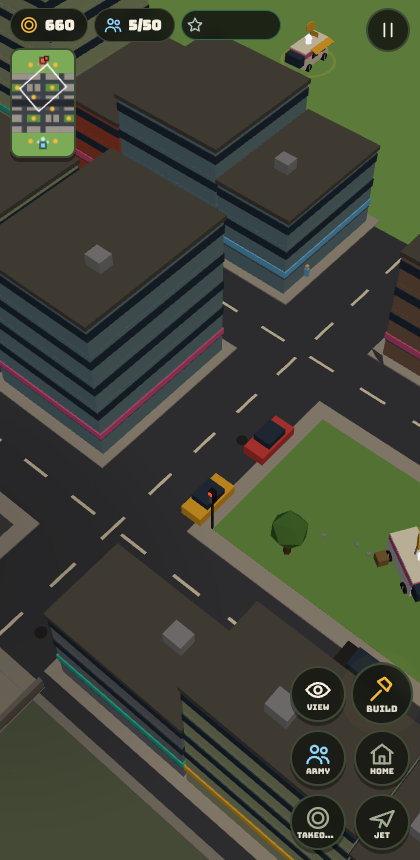
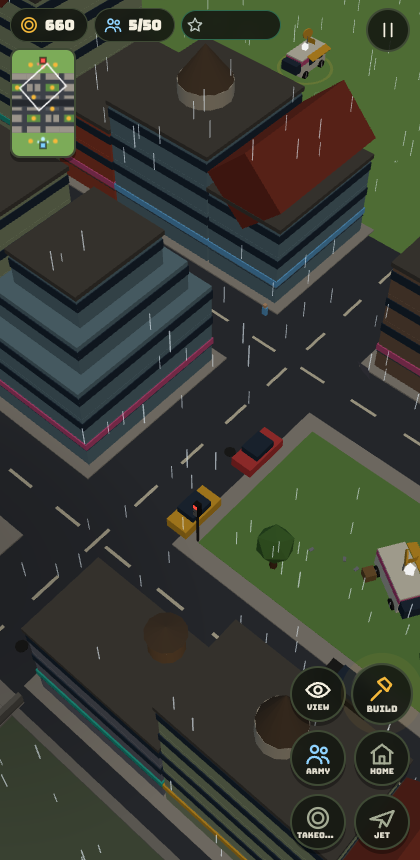
B143: Downtown step 4b - City Hall / Hideout HQ upgrades with side-specific perks
Claude-Session: https://claude.ai/code/session_01FXzpagnksiDmMAqP3MTiXJ

diff --git a/src/sim/sim.js b/src/sim/sim.js
@@ -9,11 +9,11 @@
 import {
   TICK, START_CASH, BUILD_RADIUS, MAX_WORKERS, NODE_AMOUNT, GATHER_T, CARRY, BASE_INCOME, DEPOT_INCOME,
   COUNTER, REQ, UPG, UPT, BLD, FACTIONS,
-} from '../config/factions.js?v=141';
-import { MAP, NODES, BASES, CITY, walkH } from '../map/layout.js?v=141';
-import { markCircle, isBlocked, lineClear, nearestFree, findPath, blocked, cellOf, cellCenter, inGrid } from '../map/grid.js?v=141';
-import { mulberry32 } from '../util/math.js?v=141';
-import { aiStep } from './ai.js?v=141';
+} from '../config/factions.js?v=143';
+import { MAP, NODES, BASES, CITY, walkH } from '../map/layout.js?v=143';
+import { markCircle, isBlocked, lineClear, nearestFree, findPath, blocked, cellOf, cellCenter, inGrid } from '../map/grid.js?v=143';
+import { mulberry32 } from '../util/math.js?v=143';
+import { aiStep } from './ai.js?v=143';
 
 let S = null;
 export const getSim = () => S;
@@ -21,7 +21,7 @@ export const pl = (i) => S.players[i];
 export const fac = (p) => FACTIONS[p.f];
 
 function mkPlayer(i, f, side) {
-  return { i, f, side, inc: 1, cash: START_CASH, st: { kills: 0, earned: 0, built: 0, razed: 0 }, meter: 0, incomeT: 0, parade: 0, party: 0, hqx: BASES[i].x, hqz: BASES[i].z };
+  return { i, f, side, inc: 1, cash: START_CASH, st: { kills: 0, earned: 0, built: 0, razed: 0 }, meter: 0, incomeT: 0, parade: 0, party: 0, hqLvl: 1, hqx: BASES[i].x, hqz: BASES[i].z };
 }
 
 // diff: 0 easy, 1 normal, 2 hard - the computer earns 70% / 100% / 135% and attacks with smaller / bigger waves.
@@ -85,6 +85,10 @@ const dist = (a, b) => Math.hypot(a.x - b.x, a.z - b.z) - a.r - b.r;
 const sqR = (def, slot) => (def.n > 1 ? 1.3 : def.vehicle ? 1.4 : slot === 'hero' ? 0.8 : slot === 'worker' ? 0.6 : 1.1);
 const byId = (id) => S.squads.find((s) => s.id === id) || S.blds.find((b) => b.id === id) || S.city.find((b) => b.id === id) || null;
 const FLOOR_HP = 120;
+// Downtown HQ upgrades. City Hall (builders): L2 workers rebuild 2x faster + recruiting costs 35; L3 tax x1.75, shops pay 10.
+// Hideout (wreckers): L2 loot +50% and tags pay 5; L3 fighters hit storefronts 1.25x harder.
+export const HQ_UP = [250, 450];
+const lvl = (i) => (S.players[i] ? S.players[i].hqLvl || 1 : 1);
 // Floors standing for a city storefront's hp: a floor is gone once its slice of hp is fully gone.
 const floorsFor = (b) => Math.max(0, Math.min(b.floors, Math.ceil(b.hp / FLOOR_HP - 1e-6)));
 
@@ -208,10 +212,18 @@ function applyCmd(c) {
     case 'garrison': { const b = byId(c.tower); if (b && b.owner === p.i && b.kind === 'tower' && b.built >= 1 && !b.garrison) { const q = ownSquads(p.i, c.ids).find((s) => !s.def.vehicle && !s.def.flies && s.slot !== 'worker' && s.slot !== 'hero' && !s.gar); if (q) { setOrder(q, { type: 'enter', tower: b }); b.garrison = q.id; } } break; }
     case 'eject': { const b = byId(c.id); if (b && b.owner === p.i && b.garrison) ejectTower(b); break; }
     case 'repair': { const b = byId(c.id); if (b && (b.owner === p.i || b.city) && b.built >= 1 && (b.hp < b.maxHp || b.tag || (b.city && S.down && !b.shop))) ownSquads(p.i, c.ids).forEach((s) => { if (s.slot === 'worker') setOrder(s, { type: 'repair', b }); }); break; }
+    case 'hqup': { // Downtown: City Hall (builders) / Hideout (wreckers), levels 2 and 3
+      if (!S.down || p.hqLvl >= 3) break;
+      const cost = HQ_UP[p.hqLvl - 1], hq = hqOf(p);
+      if (!hq || p.cash < cost) break;
+      p.cash -= cost; p.hqLvl++;
+      S.events.push({ k: 'hqup', x: hq.x, z: hq.z, owner: p.i, lvl: p.hqLvl, role: S.down.role[p.i] });
+      break;
+    }
     case 'recruit': { // Downtown: tap a drifter. Builders give a job (worker, 50), wreckers hand over a spray can (fighter, 40).
       const d = S.drift && S.drift.find((q) => q.id === c.id), D = S.down;
       if (!d || !D) break;
-      const role = D.role[p.i], cost = role === 'b' ? 50 : 40;
+      const role = D.role[p.i], cost = role === 'b' ? (p.hqLvl >= 2 ? 35 : 50) : 40;
       if (p.cash < cost) break;
       p.cash -= cost; recruit(d, p.i);
       break;
@@ -288,8 +300,9 @@ function killSquad(t) {
 function hitBld(b, d, by) {
   if (b.city) { // a storefront: floors come off from the top, the ground floor last; rubble stays and can be rebuilt
     if (b.hp <= 0) return;
+    if (S.down && by !== undefined && S.down.role[by] === 'w' && lvl(by) >= 3) d *= 1.25;
     if (S.down && by !== undefined && S.down.role[by] === 'w') {
-      if (b.shop) { b.shop = false; const p = pl(by); p.cash += 30; p.st.earned += 30; S.events.push({ k: 'looted', ci: b.ci, x: b.x, z: b.z, owner: by }); } // smash-and-grab
+      if (b.shop) { b.shop = false; const p = pl(by), g = lvl(by) >= 2 ? 45 : 30; p.cash += g; p.st.earned += g; S.events.push({ k: 'looted', ci: b.ci, x: b.x, z: b.z, owner: by }); } // smash-and-grab
       if (!b.tag) { b.tag = true; b.work = 0; S.events.push({ k: 'tagged', ci: b.ci, x: b.x, z: b.z }); }
     }
     b.hp = Math.max(0, b.hp - d);
@@ -414,7 +427,7 @@ function updateWorker(s, dt) {
       else if (!b.tag && b.work >= 4 && p.cash >= 60) { p.cash -= 60; b.shop = true; b.work = 0; S.events.push({ k: 'shopopen', ci: b.ci, x: b.x, z: b.z, owner: s.owner }); }
       return;
     }
-    const hp = Math.min(b.maxHp - b.hp, 25 * dt);
+    const hp = Math.min(b.maxHp - b.hp, 25 * dt * (b.city && S.down && lvl(s.owner) >= 2 ? 2 : 1));
     b.hp += hp; p.cash -= hp / 10;
     if (b.city) { // a storefront goes back up a whole floor at a time, once that floor's hp is fully paid for
       b.dead = false;
@@ -579,7 +592,7 @@ function stepDown(dt) {
   if (D.taxT >= 10) {
     D.taxT -= 10;
     const shops = S.city.filter((b) => b.shop).length, tags = S.city.filter((b) => b.tag).length;
-    const pb = pl(bi), ib = Math.round(50 * D.meter) + shops * 6, pw = pl(wi), iw = tags * 3; // shops pay the builders, tagged blocks pay the wreckers
+    const pb = pl(bi), ib = Math.round(50 * D.meter * (lvl(bi) >= 3 ? 1.75 : 1)) + shops * (lvl(bi) >= 3 ? 10 : 6), pw = pl(wi), iw = tags * (lvl(wi) >= 2 ? 5 : 3); // shops pay the builders, tagged blocks pay the wreckers
     pb.cash += ib; pb.st.earned += ib; pw.cash += iw; pw.st.earned += iw;
     S.events.push({ k: 'income', owner: bi });
   }

diff --git a/src/fx/fx.js b/src/fx/fx.js
@@ -1,12 +1,12 @@
 // Visual effects. Reads sim events, never changes the sim.
 // To add an effect for a new mechanic: emit S.events.push({k:'myThing', ...}) in the sim,
 // then add a case in handleEvents below.
-import { THREE, scene, mat, cyl, basic, disposeObj } from '../render/scene.js?v=141';
-import { walkH, CITY } from '../map/layout.js?v=141';
-import { sfx } from './sfx.js?v=141';
-import { shake, CAM } from '../camera/camera.js?v=141';
-import { FC } from '../render/models.js?v=141';
-import { emit, updateParticles, clearParticles, burstHit, burstShot, burstCoins } from './particles.js?v=141';
+import { THREE, scene, mat, cyl, basic, disposeObj } from '../render/scene.js?v=143';
+import { walkH, CITY } from '../map/layout.js?v=143';
+import { sfx } from './sfx.js?v=143';
+import { shake, CAM } from '../camera/camera.js?v=143';
+import { FC } from '../render/models.js?v=143';
+import { emit, updateParticles, clearParticles, burstHit, burstShot, burstCoins } from './particles.js?v=143';
 
 const fx = [];
 function addFx(obj, life, upd) { scene.add(obj); fx.push({ obj, life, t: 0, upd }); }
@@ -315,7 +315,7 @@ export function fxDeath(x, z, f) {
 
 /** Drain this tick's sim events into effects. bump(id) makes a squad lunge. */
 const SND = { hit: 'thud', shot: 'pop', boom: 'boom', fwboom: 'boom', wreckboom: 'boom', rank: 'chime', levelup: 'chime', done: 'chime',
-  mud: 'sting', fwlaunch: 'whoosh', wrecklaunch: 'whoosh', parade: 'sting', pie: 'sting', cones: 'sting', screech: 'sting', bullhorn: 'sting', overtime: 'chime', takeover: 'ding', jetfly: 'whoosh', jetdrop: 'thud', heroin: 'fanfare', looted: 'ding', tagged: 'whoosh', scrub: 'tap', shopopen: 'chime', hired: 'ding', riled: 'sting', chunk: 'boom', chunkfix: 'ding', hush: 'ding', golive: 'ding', wifi: 'sting', patch: 'chime', hill: 'chime', blockparty: 'sting', dropbeat: 'sting', mixlaunch: 'whoosh', mixboom: 'boom', spawn: 'blip', repair: 'tap' };
+  mud: 'sting', fwlaunch: 'whoosh', wrecklaunch: 'whoosh', parade: 'sting', pie: 'sting', cones: 'sting', screech: 'sting', bullhorn: 'sting', overtime: 'chime', takeover: 'ding', jetfly: 'whoosh', jetdrop: 'thud', heroin: 'fanfare', hqup: 'fanfare', looted: 'ding', tagged: 'whoosh', scrub: 'tap', shopopen: 'chime', hired: 'ding', riled: 'sting', chunk: 'boom', chunkfix: 'ding', hush: 'ding', golive: 'ding', wifi: 'sting', patch: 'chime', hill: 'chime', blockparty: 'sting', dropbeat: 'sting', mixlaunch: 'whoosh', mixboom: 'boom', spawn: 'blip', repair: 'tap' };
 function playFor(ev) {
   let name = SND[ev.k];
   if ((ev.k === 'deposit' || ev.k === 'income' || ev.k === 'refund' || ev.k === 'scrap') && ev.owner === 0) name = 'ding';
@@ -441,6 +441,12 @@ export function handleEvents(S, bump) {
       case 'tagged': for (let i = 0; i < 14; i++) emit({ x: ev.x + (Math.random() - 0.5) * 4, y: gy(ev.x, ev.z, 1 + Math.random() * 1.5), z: ev.z + (Math.random() - 0.5) * 4, vx: (Math.random() - 0.5) * 2, vy: Math.random(), vz: (Math.random() - 0.5) * 2, c: [0xff5ad1, 0x7ee05b, 0x5ae0ff, 0xf5b83a][i % 4], s: 0.2, life: 0.6, g: 2 }); break;
       case 'scrub': for (let i = 0; i < 16; i++) emit({ x: ev.x + (Math.random() - 0.5) * 4, y: gy(ev.x, ev.z, 0.5 + Math.random() * 2), z: ev.z + (Math.random() - 0.5) * 4, vy: 0.8 + Math.random(), c: 0xeaf6ff, s: 0.22, life: 1.1, g: -0.3, drag: 1, grow: 1.5 }); break;
       case 'shopopen': fxRing(ev.x, ev.z, 0.5, 6, 0x7ee05b, 0.7, 0.2); fxCoin(ev.x, 4, ev.z); for (let i = 0; i < 10; i++) emit({ x: ev.x + (Math.random() - 0.5) * 4, y: gy(ev.x, ev.z, 2.5), z: ev.z + (Math.random() - 0.5) * 4, vy: 2 + Math.random() * 2, c: i % 2 ? 0xf5b83a : 0xffffff, s: 0.16, life: 1, g: 4 }); break;
+      case 'hqup': { // City Hall: gold rings + white confetti; Hideout: neon spray burst
+        const cs = ev.role === 'b' ? [0xf5b83a, 0xffffff] : [0xff5ad1, 0x7ee05b, 0x5ae0ff];
+        fxRing(ev.x, ev.z, 1, 8, cs[0], 0.8, 0.2); fxRing(ev.x, ev.z, 0.5, 6, cs[1], 0.7, 2); shake(0.4, ev.x, ev.z);
+        for (let i = 0; i < 30; i++) emit({ x: ev.x + (Math.random() - 0.5) * 4, y: gy(ev.x, ev.z, 4), z: ev.z + (Math.random() - 0.5) * 4, vx: (Math.random() - 0.5) * 5, vy: 3 + Math.random() * 4, vz: (Math.random() - 0.5) * 5, c: cs[i % cs.length], s: 0.2, life: 1.6, g: 6, drag: 0.8 });
+        break;
+      }
       case 'heroin': heroEntrance(ev); break;
       case 'spawn': fxRing(ev.x, ev.z, 0.5, 2.2, 0xf3efe2, 0.35); break;
     }

diff --git a/src/ui/hud.js b/src/ui/hud.js
@@ -1,16 +1,16 @@
 // HUD: resource chips, context panel, command buttons, floating placement confirm, long-press labels.
 // Buttons are described as data ("specs") each refresh; the DOM is rebuilt only when the set of buttons changes.
 // Every action goes through sim.command(); Q.* is used only for instant feedback (shake, dim).
-import { svg } from './icons.js?v=141';
-import { UI, select, selSquads } from './state.js?v=141';
-import { getSim, pl, fac, Q, command, count, cpUsed, cpCap, hqOf } from '../sim/sim.js?v=141';
-import { BLD, BUILD_KINDS, TRAIN_SLOTS, UPG, REQ } from '../config/factions.js?v=141';
-import { CAM, toggleView, focus } from '../camera/camera.js?v=141';
-import { camera } from '../render/scene.js?v=141';
-import { walkH } from '../map/layout.js?v=141';
-import { THREE } from '../render/scene.js?v=141';
-import { showHint } from './hint.js?v=141';
-import { sfx } from '../fx/sfx.js?v=141';
+import { svg } from './icons.js?v=143';
+import { UI, select, selSquads } from './state.js?v=143';
+import { getSim, pl, fac, Q, command, count, cpUsed, cpCap, hqOf, HQ_UP } from '../sim/sim.js?v=143';
+import { BLD, BUILD_KINDS, TRAIN_SLOTS, UPG, REQ } from '../config/factions.js?v=143';
+import { CAM, toggleView, focus } from '../camera/camera.js?v=143';
+import { camera } from '../render/scene.js?v=143';
+import { walkH } from '../map/layout.js?v=143';
+import { THREE } from '../render/scene.js?v=143';
+import { showHint } from './hint.js?v=143';
+import { sfx } from '../fx/sfx.js?v=143';
 
 const panelEl = document.getElementById('panel'), cmdEl = document.getElementById('cmd'), queueEl = document.getElementById('queue');
 const placeBar = document.getElementById('placeBar'), tipEl = document.getElementById('tip');
@@ -85,6 +85,10 @@ function panelSpec() {
     } else if (b.kind === 'hq') {
       const w = F.units.worker, ww = Q.canTrain(p, b, 'worker'), wq = b.queue.filter((x) => x === 'worker').length;
       out.push({ id: 't-worker', name: w.name, icon: 'worker', cost: w.cost, dis: ww === 'lock' || b.built < 1, poor: ww === 'cash', cp: ww === 'cp', badge: wq || '', prog: b.queue[0] === 'worker' ? b.prodT / w.build : null, tap: () => (ww ? false : command(0, { type: 'train', id: b.id, slot: 'worker' })) });
+      if (S.down && p.hqLvl < 3) { // Downtown: grow City Hall (builders) / the Hideout (wreckers)
+        const cost = HQ_UP[p.hqLvl - 1], build = S.down.role[0] === 'b';
+        out.push({ id: 'hqup', name: (build ? 'City Hall' : 'Hideout') + ' level ' + (p.hqLvl + 1), short: build ? 'Hall' : 'Hideout', icon: 'up', cost, poor: p.cash < cost, pips: p.hqLvl + 1, tap: () => command(0, { type: 'hqup' }) });
+      }
       const def = F.units.hero, why = Q.canTrain(p, b, 'hero');
       out.push({ id: 't-hero', name: def.name, icon: 'hero', cost: def.cost, dis: why === 'lock' && !b.queue.includes('hero'), poor: why === 'cash', cp: why === 'cp', prog: b.queue[0] === 'hero' ? b.prodT / def.build : null, tap: () => (why ? false : command(0, { type: 'train', id: b.id, slot: 'hero' })) });
     }

diff --git a/index.html b/index.html
@@ -6,7 +6,7 @@
 <meta name="viewport" content="width=device-width,initial-scale=1,maximum-scale=1,user-scalable=no,viewport-fit=cover">
 <link rel="preconnect" href="https://fonts.googleapis.com">
 <link rel="stylesheet" href="https://fonts.googleapis.com/css2?family=Bungee&family=Lilita+One&display=swap">
-<link rel="stylesheet" href="./src/ui/style.css?v=141">
+<link rel="stylesheet" href="./src/ui/style.css?v=143">
 <!-- No build step needed: GitHub Pages serves this file straight from main, so bare 'three' imports resolve here. -->
 <script type="importmap">
 { "imports": { "three": "./vendor/three/three.module.min.js", "three/examples/jsm/": "./vendor/three/jsm/" } }
@@ -36,7 +36,7 @@
 <div id="box"></div>
 <div id="holdRing" hidden></div>
 <div id="menu" class="overlay">
-  <h1>Culture <em>Wars</em><span>GREYBOX 04 · <b id="build">B141</b></span></h1>
+  <h1>Culture <em>Wars</em><span>GREYBOX 04 · <b id="build">B143</b></span></h1>
   <div class="diff" id="diff"><button type="button" data-d="0" aria-label="Easy"><span class="ic" data-i="star"></span></button><button type="button" data-d="1" class="on" aria-label="Normal"><span class="ic" data-i="star"></span><span class="ic" data-i="star"></span></button><button type="button" data-d="2" aria-label="Hard"><span class="ic" data-i="star"></span><span class="ic" data-i="star"></span><span class="ic" data-i="star"></span></button><i class="sep"></i><button type="button" class="mode" data-m="vs" aria-label="Versus"><span class="ic" data-i="home"></span><small>VERSUS</small></button><button type="button" class="mode" data-m="hill" aria-label="King of the Hill"><span class="ic" data-i="flag"></span><small>HILL</small></button><button type="button" class="mode" data-m="cap" aria-label="Capture and Hold"><span class="ic" data-i="hold"></span><small>FLAGS</small></button><button type="button" class="mode" data-m="race" aria-label="Resource Race"><span class="ic" data-i="coin"></span><small>RACE</small></button><button type="button" class="mode" data-m="hero" aria-label="Hero vs Hero"><span class="ic" data-i="hero"></span><small>HEROES</small></button><button type="button" class="mode" data-m="down-w" aria-label="Downtown: you smash the city"><span class="ic" data-i="ball"></span><small>SMASH</small></button><button type="button" class="mode" data-m="down-b" aria-label="Downtown: you keep the city standing"><span class="ic" data-i="hammer"></span><small>FIX</small></button></div>
   <div class="picks">
     <button class="pick" data-f="bw" type="button"><span class="ic" data-i="truck"></span>Backwoods<small>FEWER · TOUGHER</small></button>
@@ -66,6 +66,6 @@
   setTimeout(function () { if (!window.__cwBooted) show('Game script did not start (old cached file? wait a few minutes and reload)'); }, 8000);
 })();
 </script>
-<script type="module" src="./src/main.js?v=141" onerror="__cwLoadFail()"></script>
+<script type="module" src="./src/main.js?v=143" onerror="__cwLoadFail()"></script>
 </body>
 </html>

diff --git a/src/render/sync.js b/src/render/sync.js
@@ -1,19 +1,19 @@
 // Mirrors sim state into the scene every frame. Reads the sim, never writes to it.
-import { THREE, scene, camera, mat, box, basic, ringMesh, disposeObj, casts } from './scene.js?v=141';
-import { makeMember, bldMesh, nodeMesh, formation, FC } from './models.js?v=141';
-import { makeChar, charsReady, play, CAST } from './chars.js?v=141';
-import { emit } from '../fx/particles.js?v=141';
-import { bark } from '../fx/sfx.js?v=141';
-import { TICK } from '../config/factions.js?v=141';
-import { walkH } from '../map/layout.js?v=141';
-import { NODE_AMOUNT, BLD, BUILD_RADIUS, FACTIONS } from '../config/factions.js?v=141';
-import { CAM } from '../camera/camera.js?v=141';
+import { THREE, scene, camera, mat, box, basic, ringMesh, disposeObj, casts } from './scene.js?v=143';
+import { makeMember, bldMesh, nodeMesh, formation, FC } from './models.js?v=143';
+import { makeChar, charsReady, play, CAST } from './chars.js?v=143';
+import { emit } from '../fx/particles.js?v=143';
+import { bark } from '../fx/sfx.js?v=143';
+import { TICK } from '../config/factions.js?v=143';
+import { walkH } from '../map/layout.js?v=143';
+import { NODE_AMOUNT, BLD, BUILD_RADIUS, FACTIONS } from '../config/factions.js?v=143';
+import { CAM } from '../camera/camera.js?v=143';
 const fac0 = (S) => FACTIONS[S.players[0].f];
-import { Q, pl, getSim } from '../sim/sim.js?v=141';
-import { UI } from '../ui/state.js?v=141';
-import { fxConfetti, fxDeath } from '../fx/fx.js?v=141';
+import { Q, pl, getSim } from '../sim/sim.js?v=143';
+import { UI } from '../ui/state.js?v=143';
+import { fxConfetti, fxDeath } from '../fx/fx.js?v=143';
 import { mergeGeometries } from 'three/examples/jsm/utils/BufferGeometryUtils.js';
-import { lerpAngle } from '../util/math.js?v=141';
+import { lerpAngle } from '../util/math.js?v=143';
 // Selection rings take your faction colour, washed toward white so they still pop on any ground.
 const selCol = () => { const S = getSim(), f = S && S.players[0].f; return f ? new THREE.Color(FC[f].main).lerp(new THREE.Color(0xffffff), 0.35).getHex() : 0xffffff; };
 
@@ -404,6 +404,7 @@ export function syncRender(S, alpha, dt, time) {
     let o = R.bl.get(b.id);
     if (!o) { o = makeBldObj(b); R.bl.set(b.id, o); }
     o.mesh.scale.y = 0.25 + 0.75 * b.built;
+    if (b.kind === 'hq' && S.down) { const L = (pl(b.owner).hqLvl || 1) - 1; o.mesh.scale.y *= 1 + 0.18 * L; o.mesh.scale.x = o.mesh.scale.z = 1 + 0.07 * L; } // City Hall / Hideout grows a size per level
     if (b.kind === 'tower') {
       if (!o.crew) { o.crew = new THREE.Group(); for (let k = 0; k < 3; k++) { const f = new THREE.Group(); f.add(box(0.28, 0.45, 0.22, b.owner === 0 ? 0x7fd1ff : 0xff5a4f, 0, 0.23, 0), box(0.22, 0.22, 0.22, 0xf2c9a0, 0, 0.58, 0)); f.position.set((k - 1) * 0.7, 4.6, k === 1 ? 0.6 : -0.4); o.crew.add(f); } casts(o.crew); o.root.add(o.crew); }
       o.crew.visible = !!b.garrison;

diff --git a/src/main.js b/src/main.js
@@ -1,23 +1,23 @@
 // Entry point: wires sim + render + input + UI and runs the fixed-step loop.
-import { renderer, scene, camera, followSun, THREE, setTimeOfDay, sun } from './render/scene.js?v=141';
-import { buildWorld, updateWorld, setDusk, setRain, setLowWorld } from './render/world.js?v=141';
-import { syncRender, clearRender, bump } from './render/sync.js?v=141';
-import { handleEvents, updateFx, clearFx } from './fx/fx.js?v=141';
-import { newSim, getSim, step } from './sim/sim.js?v=141';
-import { TICK } from './config/factions.js?v=141';
-import { CAM, applyCam, resetCam, onResize } from './camera/camera.js?v=141';
-import { initInput, lockPageZoom } from './input/input.js?v=141';
-import { refreshHUD, resetHUD, updatePlaceBar, showTip } from './ui/hud.js?v=141';
-import { resetUI } from './ui/state.js?v=141';
-import { fillIcons, svg } from './ui/icons.js?v=141';
-import { noteAlerts, updateAlert, clearAlert } from './ui/alert.js?v=141';
-import { updateMinimap } from './ui/minimap.js?v=141';
-import { isMuted, setMuted } from './fx/sfx.js?v=141';
-import { loadChars } from './render/chars.js?v=141';
-import { emit } from './fx/particles.js?v=141';
-import { FC } from './render/models.js?v=141';
+import { renderer, scene, camera, followSun, THREE, setTimeOfDay, sun } from './render/scene.js?v=143';
+import { buildWorld, updateWorld, setDusk, setRain, setLowWorld } from './render/world.js?v=143';
+import { syncRender, clearRender, bump } from './render/sync.js?v=143';
+import { handleEvents, updateFx, clearFx } from './fx/fx.js?v=143';
+import { newSim, getSim, step } from './sim/sim.js?v=143';
+import { TICK } from './config/factions.js?v=143';
+import { CAM, applyCam, resetCam, onResize } from './camera/camera.js?v=143';
+import { initInput, lockPageZoom } from './input/input.js?v=143';
+import { refreshHUD, resetHUD, updatePlaceBar, showTip } from './ui/hud.js?v=143';
+import { resetUI } from './ui/state.js?v=143';
+import { fillIcons, svg } from './ui/icons.js?v=143';
+import { noteAlerts, updateAlert, clearAlert } from './ui/alert.js?v=143';
+import { updateMinimap } from './ui/minimap.js?v=143';
+import { isMuted, setMuted } from './fx/sfx.js?v=143';
+import { loadChars } from './render/chars.js?v=143';
+import { emit } from './fx/particles.js?v=143';
+import { FC } from './render/models.js?v=143';
 
-export const BUILD = 141; // written by `npm run bump`
+export const BUILD = 143; // written by `npm run bump`
 lockPageZoom();
 fillIcons();
 buildWorld();

diff --git a/src/input/input.js b/src/input/input.js
@@ -4,13 +4,13 @@
 //   hold then drag  = box select
 //   2 fingers       = pinch zoom + twist to rotate + drag to pan
 //   mouse: right-drag = box select, wheel = zoom; keys WASD/arrows pan, Q/E rotate, V ghost cam, Esc cancel
-import { THREE, camera, canvas } from '../render/scene.js?v=141';
-import { walkH } from '../map/layout.js?v=141';
-import { getSim, command } from '../sim/sim.js?v=141';
-import { UI, select, selSquads } from '../ui/state.js?v=141';
-import { CAM, panBy, clampCam, toggleView, pxPerUnit, fling } from '../camera/camera.js?v=141';
-import { fxMarker } from '../fx/fx.js?v=141';
-import { ack } from '../render/sync.js?v=141';
+import { THREE, camera, canvas } from '../render/scene.js?v=143';
+import { walkH } from '../map/layout.js?v=143';
+import { getSim, command } from '../sim/sim.js?v=143';
+import { UI, select, selSquads } from '../ui/state.js?v=143';
+import { CAM, panBy, clampCam, toggleView, pxPerUnit, fling } from '../camera/camera.js?v=143';
+import { fxMarker } from '../fx/fx.js?v=143';
+import { ack } from '../render/sync.js?v=143';
 
 const ray = new THREE.Raycaster(), ndc = new THREE.Vector2(), tmp = new THREE.Vector3();
 export function groundAt(cx, cy) {

diff --git a/src/sim/ai.js b/src/sim/ai.js
@@ -1,6 +1,6 @@
 // Computer opponent. Runs inside the sim tick, uses only S.rng.
-import { BLD, UPG, COUNTER, REQ, TRAIN_SLOTS } from '../config/factions.js?v=141';
-import { A, Q, pl, fac, count, barracksOf, hqOf, workersOf, setOrder, aliveN, command } from './sim.js?v=141';
+import { BLD, UPG, COUNTER, REQ, TRAIN_SLOTS } from '../config/factions.js?v=143';
+import { A, Q, pl, fac, count, barracksOf, hqOf, workersOf, setOrder, aliveN, command, HQ_UP } from './sim.js?v=143';
 
 function aiSpot(S, p, kind, cx, cz, r0 = 7, r1 = 19) {
   for (let i = 0; i < 30; i++) {
@@ -102,6 +102,7 @@ export function aiStep(S, dt, pi = 1) {
   // and keep it there; full waves still go for the HQ.
   if (S.down) { // Downtown
     const role = S.down.role[pi];
+    if (p.hqLvl < 3 && S.t > 90 && p.cash > HQ_UP[p.hqLvl - 1] + 120) command(pi, { type: 'hqup' }); // grow City Hall / the Hideout
     // Both sides recruit the nearest drifter when they have the cash to spare.
     if (S.drift && S.drift.length && p.cash > (role === 'b' ? 160 : 110)) {
       const d = S.drift.slice().sort((a, b) => Math.hypot(a.x - p.hqx, a.z - p.hqz) - Math.hypot(b.x - p.hqx, b.z - p.hqz))[0];

diff --git a/src/render/world.js b/src/render/world.js
@@ -1,10 +1,10 @@
 // Static city: streets, sidewalks, buildings, parks, freeway trench + overpasses, ambient traffic.
 // Built once from map/layout.js. Mostly InstancedMesh so it stays cheap on phones.
-import { THREE, scene, mat, box, setOvercast } from './scene.js?v=141';
-import { CAM } from '../camera/camera.js?v=141';
-import { MAP, BLOCKS, CITY, TREES, PARKED, TRENCH, OVERPASSES, AVENUES, CROSS_STREETS, HOME_Z, inRect, walkH } from '../map/layout.js?v=141';
-import { hash } from '../util/math.js?v=141';
-import { emit } from '../fx/particles.js?v=141';
+import { THREE, scene, mat, box, setOvercast } from './scene.js?v=143';
+import { CAM } from '../camera/camera.js?v=143';
+import { MAP, BLOCKS, CITY, TREES, PARKED, TRENCH, OVERPASSES, AVENUES, CROSS_STREETS, HOME_Z, inRect, walkH } from '../map/layout.js?v=143';
+import { hash } from '../util/math.js?v=143';
+import { emit } from '../fx/particles.js?v=143';
 
 const COL = {
   asphalt: 0x3d4148, sidewalk: 0xa8a49a, grass: 0x6f9e50, lawn: 0x7cab58, lot: 0x4b4f56, stripe: 0xe8e2c8,

diff --git a/src/ui/minimap.js b/src/ui/minimap.js
@@ -1,8 +1,8 @@
 // Minimap, top-left under the resource chips. Fixed orientation: your base at the bottom (+z), enemy at the top.
 // Tap or drag on it to move the camera there. Static city is drawn once; units/buildings redraw ~10x a second.
-import { MAP, BLOCKS, TRENCH } from '../map/layout.js?v=141';
-import { CAM, focus } from '../camera/camera.js?v=141';
-import { getSim } from '../sim/sim.js?v=141';
+import { MAP, BLOCKS, TRENCH } from '../map/layout.js?v=143';
+import { CAM, focus } from '../camera/camera.js?v=143';
+import { getSim } from '../sim/sim.js?v=143';
 
 const cv = document.getElementById('mini'), ctx = cv.getContext('2d');
 const bg = document.createElement('canvas'), bctx = bg.getContext('2d');

diff --git a/src/ui/alert.js b/src/ui/alert.js
@@ -1,9 +1,9 @@
 // Under-attack alert: when something of yours is hit somewhere the camera is not looking, a red arrow pulses on
 // the screen edge pointing at it. Tap the arrow to fly there. Newest fight wins; it fades 5 s after the last hit.
-import { THREE, camera } from '../render/scene.js?v=141';
-import { walkH } from '../map/layout.js?v=141';
-import { focus } from '../camera/camera.js?v=141';
-import { svg } from './icons.js?v=141';
+import { THREE, camera } from '../render/scene.js?v=143';
+import { walkH } from '../map/layout.js?v=143';
+import { focus } from '../camera/camera.js?v=143';
+import { svg } from './icons.js?v=143';
 
 const el = document.getElementById('alert');
 el.innerHTML = svg('up');

diff --git a/src/render/chars.js b/src/render/chars.js
@@ -2,7 +2,7 @@
 // clips drives all of them: the clips come from three DONOR files and are retargeted onto each rig by bone name.
 // Nothing here is required: until the files load (or if they fail, e.g. the single-file artifact build) the
 // box placeholders in models.js are used, and sync.js swaps squads over once this reports ready.
-import { THREE } from './scene.js?v=141';
+import { THREE } from './scene.js?v=143';
 import { GLTFLoader } from 'three/examples/jsm/loaders/GLTFLoader.js';
 import { DRACOLoader } from 'three/examples/jsm/loaders/DRACOLoader.js';
 import { clone as skClone } from 'three/examples/jsm/utils/SkeletonUtils.js';
